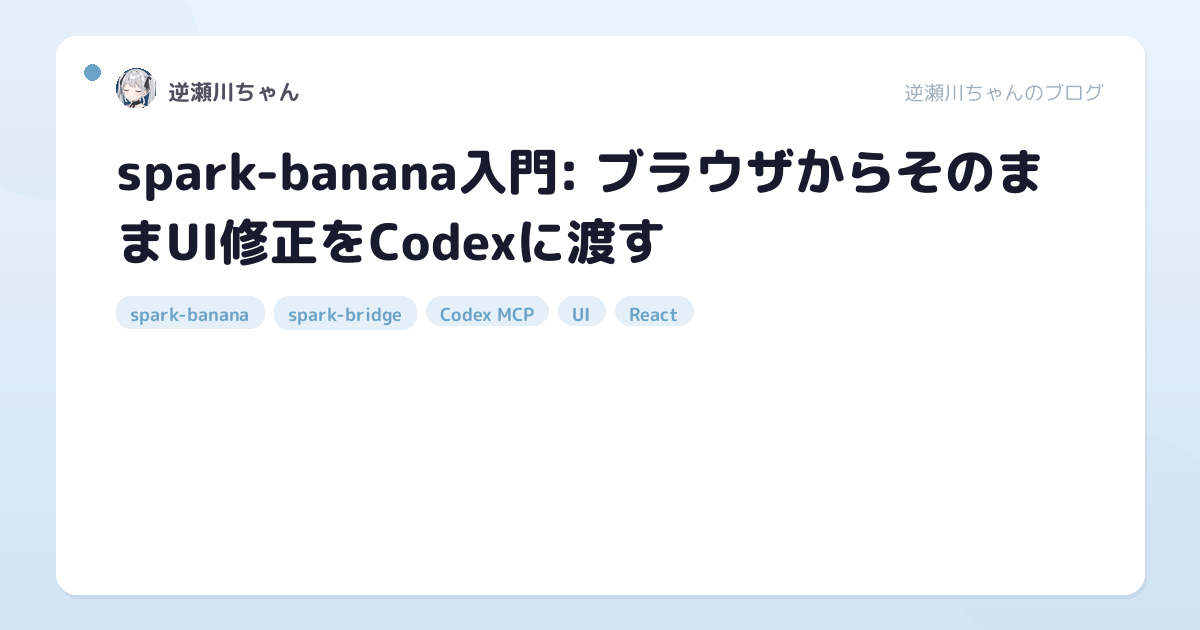
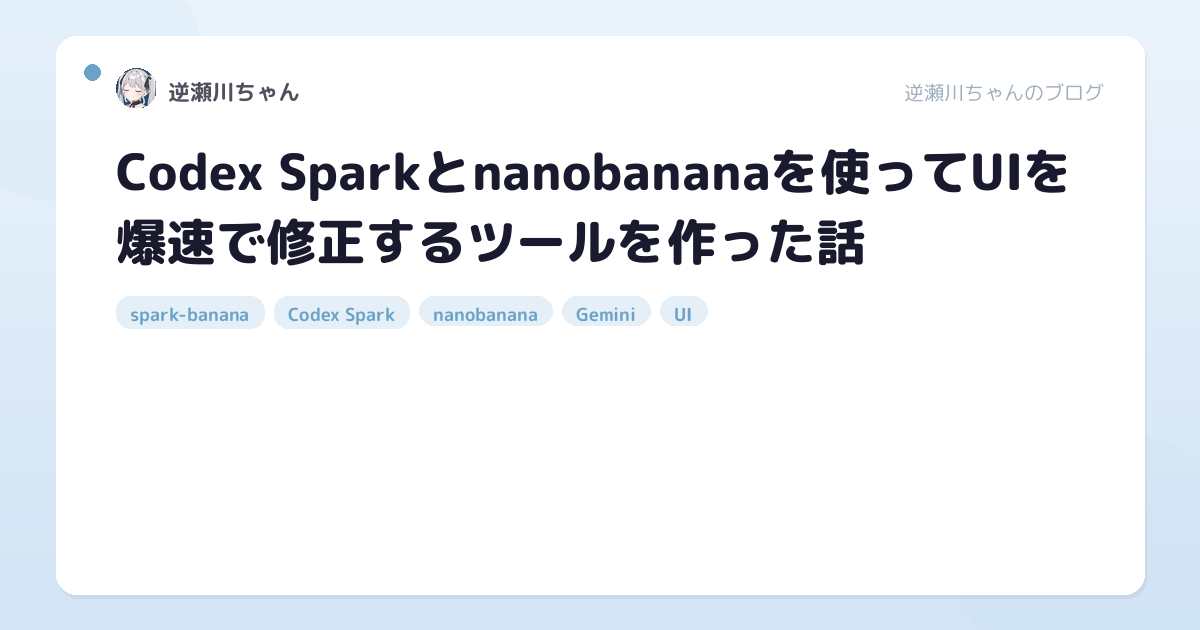
Update post: Codex Sparkとnanobananaを使ってUIを爆速で修正するツールを作った話

Changed region(s): [[0.0925, 0.2111, 0.8942, 0.4222], [0.2158, 0.4524, 0.5858, 0.5429]]

diff --git a/posts/spark-banana-introduction.md b/posts/spark-banana-introduction.md
@@ -1,14 +1,14 @@
 ---
-title: "spark-banana入門: ブラウザからそのままUI修正をCodexに渡す"
-description: "spark-banana と spark-bridge を使って、UIの気になる箇所をブラウザ上から直接修正フローに乗せる方法をまとめます"
+title: "Codex Sparkとnanobananaを使ってUIを爆速で修正するツールを作った話"
+description: "Codex Spark (gpt-5.3-codex-spark) とnanobanana (Gemini 3) を組み合わせて、ブラウザからUIをリアルタイムに修正するツール spark-banana を作りました"
 date: 2026-02-27
-tags: [spark-banana, spark-bridge, Codex MCP, UI, React]
+tags: [spark-banana, Codex Spark, nanobanana, Gemini, UI, React]
 author: 逆瀬川ちゃん
 ---
 
 こんにちは！逆瀬川ちゃん ([@gyakuse](https://x.com/gyakuse)) です！
 
-今日は [spark-banana](https://github.com/nyosegawa/spark-banana) について、何が嬉しいのかと、最短で使い始める手順をまとめていきたいと思います。
+きょうは [spark-banana](https://github.com/nyosegawa/spark-banana) というUI爆速改造ツールを作ったので紹介していきたいと思います。
 
 <iframe
   width="100%"
@@ -24,25 +24,15 @@ author: 逆瀬川ちゃん
 
 <!--more-->
 
-## spark-bananaって何？
+## spark-bananaとは？
 
-一言でいうと、ローカル開発中のUI修正をブラウザから直接AIエージェントに渡すためのオーバーレイです。
+まずは上の動画をご覧ください。だいたい雰囲気がわかるかなと思います。
 
-よくある「気になる見た目を口頭で説明して、ファイルを探して、手で直す」という流れを、次のように短くできます。
+ひとことで言うと、UIの特定の部分をクリックして指示を出すだけで [Codex MCP](https://github.com/openai/codex) を経由してコードが即座に修正されるツールです。さらにnanobananaで選択領域のスクリーンショットからデザイン提案を生成して、そこからCodexで実装を反映してくれます。べんり。
 
-- ブラウザで要素をクリック
-- 修正指示をその場で入力
-- `spark-bridge` が Codex MCP に中継
-- 変更が反映される
+現在はViteとNext.js (React) に対応しています。
 
-この「見えている場所から修正を起こせる」体験が、いちばんの価値です。
-
-## 全体構成
-
-構成はシンプルです。
-
-- `spark-banana`（overlay）: ブラウザUI
-- `spark-bridge`（bridge）: WebSocketサーバーとCodex中継
+全体の構成はシンプルで、ブラウザ側のオーバーレイ (`spark-banana`) と、Codexへの中継をやるWebSocketサーバー (`spark-bridge`) の2つだけです。
 
 ```text
 Browser (overlay)            Bridge server                  Your codebase
@@ -52,25 +42,42 @@ Browser (overlay)            Bridge server                  Your codebase
 └───────────────────────┘    └────────────────────────┘     └───────────────┘
 ```
 
-ここで重要なのは、overlayとbridgeが分離されていることです。アプリ側は `SparkAnnotation` を差し込むだけで、重い処理は bridge 側に逃がせます。
+## 導入方法
 
-## 最短セットアップ
+### 前提条件
 
-まずインストールします。
+Codex CLIがインストール・認証済みである必要があります。
+
+```bash
+npm install -g @openai/codex
+codex
+```
+
+### パッケージのインストール
 
 ```bash
 npm install -D spark-banana spark-bridge
 ```
 
-次に bridge を起動します。
+### bridgeサーバーの立ち上げ
+
+bridgeサーバーはCodexとブラウザの中継を担当します。
 
 ```bash
 npx spark-bridge
 ```
 
-デフォルトは `ws://localhost:3700` です。
+これだけでデフォルト `ws://localhost:3700` でWebSocketサーバーが立ち上がります。オプションでモデルやポートも変更できます。
 
-アプリ側には overlay を追加します。
+```bash
+npx spark-bridge --port 3700 --model gpt-5.3-codex-spark
+```
+
+### フロントエンドへの組み込み
+
+アプリ側にはオーバーレイコンポーネントを1つ追加するだけです。
+
+Viteの場合:
 
 ```tsx
 import { SparkAnnotation } from 'spark-banana';
@@ -78,55 +85,113 @@ import { SparkAnnotation } from 'spark-banana';
 <SparkAnnotation projectRoot={import.meta.env.VITE_SPARK_PROJECT_ROOT} />
 ```
 
-`projectRoot` は明示するのがおすすめです。Vite なら `.env` に次を置けばOKです。
+`.env` に以下を設定します。
 
 ```bash
 VITE_SPARK_PROJECT_ROOT=/absolute/path/to/your/project
 ```
 
-Next.js なら `.env.local` で次を使います。
+Next.jsの場合:
+
+```tsx
+'use client';
+import { SparkAnnotation } from 'spark-banana';
+
+export default function Spark() {
+  if (process.env.NODE_ENV !== 'development') return null;
+  return <SparkAnnotation projectRoot={process.env.NEXT_PUBLIC_SPARK_PROJECT_ROOT} />;
+}
+```
+
+`.env.local` に以下を設定します。
 
 ```bash
 NEXT_PUBLIC_SPARK_PROJECT_ROOT=/absolute/path/to/your/project
 ```
 
-## 2つのモード
+## 使い方
 
-spark-banana には大きく2モードあります。
+spark-bananaには3つのモードがあります。
 
-- Spark mode: 要素ベースで修正依頼
-- Banana mode: スクリーンショットベースで提案を作ってから適用
+### Spark mode
 
-「このボタンだけ直したい」は Spark、
-「この領域全体をデザインごと寄せたい」は Banana、という使い分けがしやすいです。
+要素ベースの修正モードです。フローティングボタンを有効にして、修正したい要素をクリック、指示を入力して送信するだけです。Cerebras上で動いているCodex Spark (`gpt-5.3-codex-spark`) が爆速に修正を適用してくれます。「このボタンの色を変えたい」「この余白を詰めたい」みたいなピンポイント修正に向いています。
 
-## 実運用で効くポイント
+### Banana mode
 
-紹介記事なので、実際に使って効いたポイントも先に書きます。
+スクリーンショットベースのデザイン提案モードです。領域を選択してキャプチャすると、nanobanana が3つのデザインバリエーションを画像つきで提案してくれます。気に入ったデザインを選ぶと、そのデザインにマッチするようにCodexが実装を反映します。「この領域全体の雰囲気を変えたい」みたいな大きめの修正に向いています。
 
-- 進捗ログが見えるので、裏で何が走っているかを追いやすい
-- 承認フローがあるので、危ないコマンド実行を止められる
-- 再接続時の進行中メッセージにも追従しやすくなっている
-- i18nが最初から入っていて、チーム利用しやすい
+### Plan mode
 
-特にUI作業は「見た目の認識ズレ」がコストになりがちなので、対象要素を起点にできる設計はかなり効きます。
+3つのアプローチを並べて比較できるモードです。Spark modeで要素を選択したあとPlanモードに切り替えると、3つの異なる実装案をCodexに生成させて比較できます。「デザインの方向性を検討したい」ときに便利です。
 
-## どんな人に向いているか
+いずれのモードでも進捗ログがリアルタイムで見えますし、危ないコマンド実行には承認フローが入るので安心です。
 
-- フロントの細かい修正が多い人
-- 「ここをこうしたい」をコードに落とすまでの往復を減らしたい人
-- Codex連携をUI起点で回したい人
+## なぜこれを作ったか
 
-逆に、完全自動で放置したい用途よりは、画面を見ながら小刻みに指示を出すワークフローに向いています。
+モチベーションは3つありました。
 
-## まとめ
+1. Codex Sparkの技術検証
+2. nanobananaを駆使したUI改善フローの効率化
+3. Agentを使ったUI改修体験の未来を見たい
 
-- spark-banana は「ブラウザ上の対象要素から修正を始める」ための道具です
-- 導入は `spark-banana` + `spark-bridge` の2パッケージでシンプルです
-- Spark / Banana の2モードで、ピンポイント修正と領域ベース修正を使い分けできます
+### Codex Sparkの技術検証
+
+[Codex Spark](https://openai.com/index/introducing-gpt-5-3-codex-spark/) (gpt-5.3-codex-spark) はCerebras Wafer-Scale Engine上で動いていて、1,000+ tokens/secという驚異的な速度が出ます。gpt-5.3-codexの15倍速です。しかしあまりに速すぎるがゆえに人間の認知能力を超えてしまっていて、使い所が難しいという問題がありました。Cerebrasで動くLLMは人類にはいろんな意味ではやすぎるのです。
+
+じっさいCodex Sparkが出た当初は持て囃されましたが、こう実用に乗せている、というひとはごく僅かに見受けられました。なぜ難しいのでしょうか。
+
+それはただはやすぎるだけではなく、Context Windowが小さいというところが大きいのではないかと思います。
+
+| | gpt-5.3-codex | gpt-5.3-codex-spark |
+|---|---|---|
+| Context Window | 400K | 128K |
+| 速度 | ~65-70 tok/s | 1,000+ tok/s |
+| マルチモーダル | 対応 | テキストのみ |
+| SWE-Bench Pro | 75.1% | 72.8% |
+| 複雑な推論 | 12+ステップ維持 | 6-8ステップで精度低下 |
+
+128Kと400Kの差は大きく、[codex-rsの実装を読み解くと](https://zenn.dev/sakasegawa/articles/65895201c59e44#context-window%E3%81%AE%E5%88%B6%E9%99%90) (これはちょっと前の情報なので注意が必要ですが)、Context Windowの95%を利用したタイミングでCompactionが走ります。128Kだとわりとすぐにその壁に到達してしまうので、ふつうの使い方だとやはりデフォルトCodexが無難です。
+
+しかし「はやい」というのは「リアルタイム性を持てる」ということです。なにか使えるはずです。リアルタイムな情報の解釈をSparkにやらせてもいいですし、リアルタイム対話Agentの裏側がSparkだったらおもしろそうです。今回はちょうどUIの細々とした修正がさいきん増えてきて「これだ」みたいな感触があったので、やってみました。UIのピンポイント修正ならContext Windowの制約も問題になりにくいですし、速さの恩恵を最大限受けられます。
+
+CodexはOpenAIが[MCPを公開](https://github.com/openai/codex)してくれているので、安心して繋ぎこむことができます。ただ、あんまりこういう事例がなかったので一応公式に問い合わせたり、[Developer Forumで相談](https://community.openai.com/t/building-a-browser-to-codex-bridge-via-codex-mcp-server-tou-clarification-needed/1375345)したりしていました。
+
+### nanobananaを駆使したUI改善フローの効率化
+
+さて、Spark modeの話をしましたが、UIの改善にはもうひとつの大きな課題がありました。さいきんわたしがよくやっていたアプローチとして以下のようなものがあります。
+
+1. 現状のスクショを撮る (特定の部分 or 全体)
+2. nanobananaにスクショを渡して何個か案を出してもらう
+3. 良い案をCoding Agentに渡して修正してもらう
+
+バケツリレーを人間がやるのは非効率なので、これを自動化したかったのです。
+
+spark-bananaのBanana modeはまさにこのフローを一気通貫で実現します。内部的には [nanobanana](https://ai.google.dev/gemini-api/docs/image-generation) (Gemini API) を使って3つのデザインバリエーションを並列生成し、選んだデザインをCodexに渡して実装させます。先日 [Nano Banana 2](https://blog.google/innovation-and-ai/technology/ai/nano-banana-2/) (Gemini 3.1) が出たタイミングなので、生成速度も品質も非常によくなっています。
+
+ここで気をつけるべきことがあります。nanobananaの修正案画像はSparkモデルでは読めません。さきほど表で示したとおりCodex Sparkはテキストモーダルのみだからです。そのためBanana modeの適用時にはgpt-5.3-codexに渡す仕様になっています。画像→テキスト変換LLMを挟む手もありますが、できるだけ情報損失なく実装モデルに渡したいモチベーションがありました。
+
+### Agentを使ったUI改修体験の未来を見たい
+
+さいきんはいろんなUI系のツールが増えてきています。最初のモックづくりはだいぶいい感じになりました。しかし進行中の改善はまだ直感的に操作が難しいです。
+
+将来を考えるとユーザーサイドが好きなUIUXで情報を受け取るような状況が大いにありえます。リアルタイム動画生成モデルによってUIはすべて映像に溶け込むかもしれませんし、ほかの表現 (AR/VRなど) かもしれません。でも現時点での一番良い体験はどこかと考えると、たぶん喋りながらいい感じに変わってくれるような感じなのでしょう。喋るだけだと伝わらないので、マウスや指で指定してあげるとよいです。アイアンマンにおいてJARVISとトニースタークが対話的にUI/設計を改修していましたが、そういう体験を届けたいのです。
+
+今回はパパっと作ったためネイティブには音声対応はしていませんが、わたしがさいきん作った [audio-input](https://github.com/nyosegawa/audio-input) みたいなディクテーションインターフェイス (こういうツールはさいきん大量に増えています) を介せば、まあまあいい感じにやれます。今後の改修予定として、そういう音声対話的な体験に対応していくつもりです。
+
+## おわりに
+
+今回はspark-bananaというツールを紹介しました。まだまだバグばかりだと思いますが、よかったら使ってみて感想を [@gyakuse](https://x.com/gyakuse) まで教えてください！
 
 ## References
 
 - [spark-banana Repository](https://github.com/nyosegawa/spark-banana)
 - [spark-banana (npm)](https://www.npmjs.com/package/spark-banana)
 - [spark-bridge (npm)](https://www.npmjs.com/package/spark-bridge)
+- [Introducing GPT-5.3-Codex-Spark | OpenAI](https://openai.com/index/introducing-gpt-5-3-codex-spark/)
+- [OpenAI GPT-5.3-Codex-Spark | Cerebras](https://www.cerebras.ai/blog/openai-codexspark)
+- [Codex 5.3 vs. Codex Spark: Speed vs. Intelligence](https://www.turingcollege.com/blog/codex-5-3-vs-codex-spark-speed-vs-intelligence)
+- [Coding Agentの実装から考えるContext Windowの制限](https://zenn.dev/sakasegawa/articles/65895201c59e44)
+- [Nano Banana 2 | Google](https://blog.google/innovation-and-ai/technology/ai/nano-banana-2/)
+- [Gemini API Image Generation (Nano Banana)](https://ai.google.dev/gemini-api/docs/image-generation)
+- [audio-input](https://github.com/nyosegawa/audio-input)
